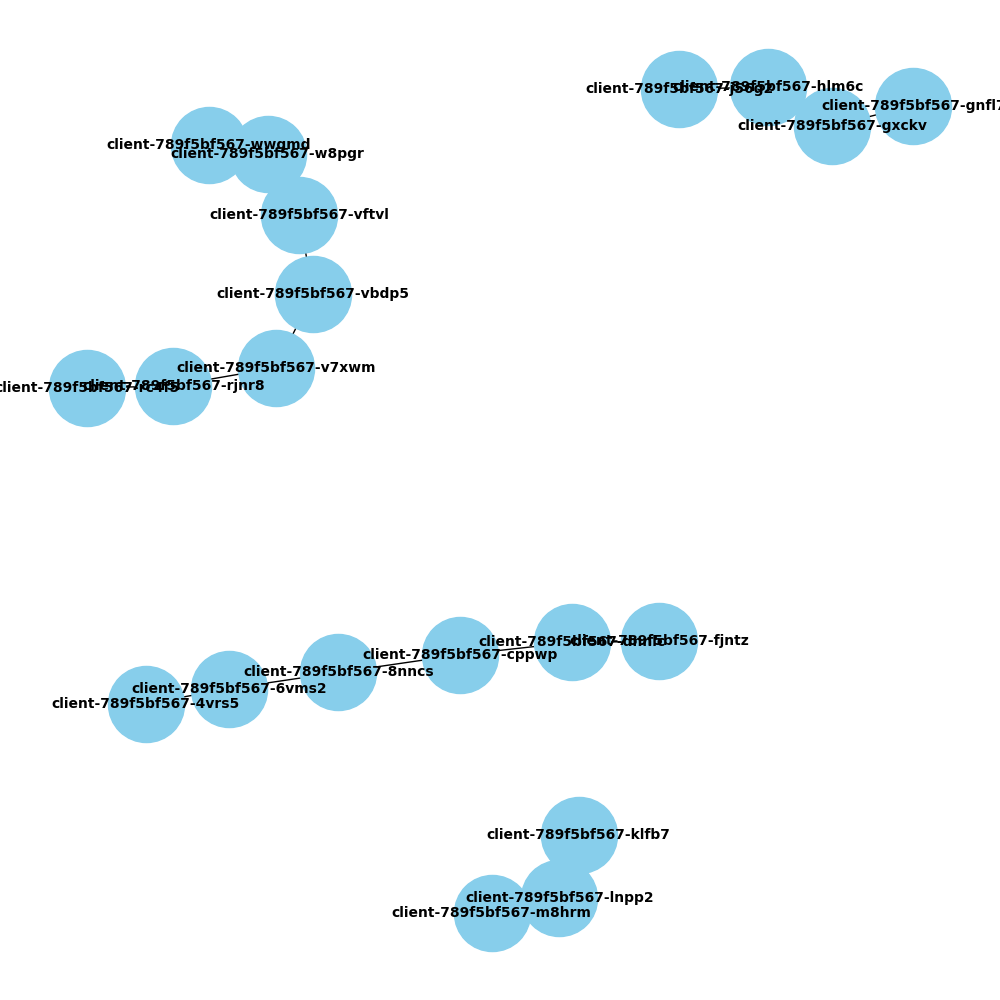
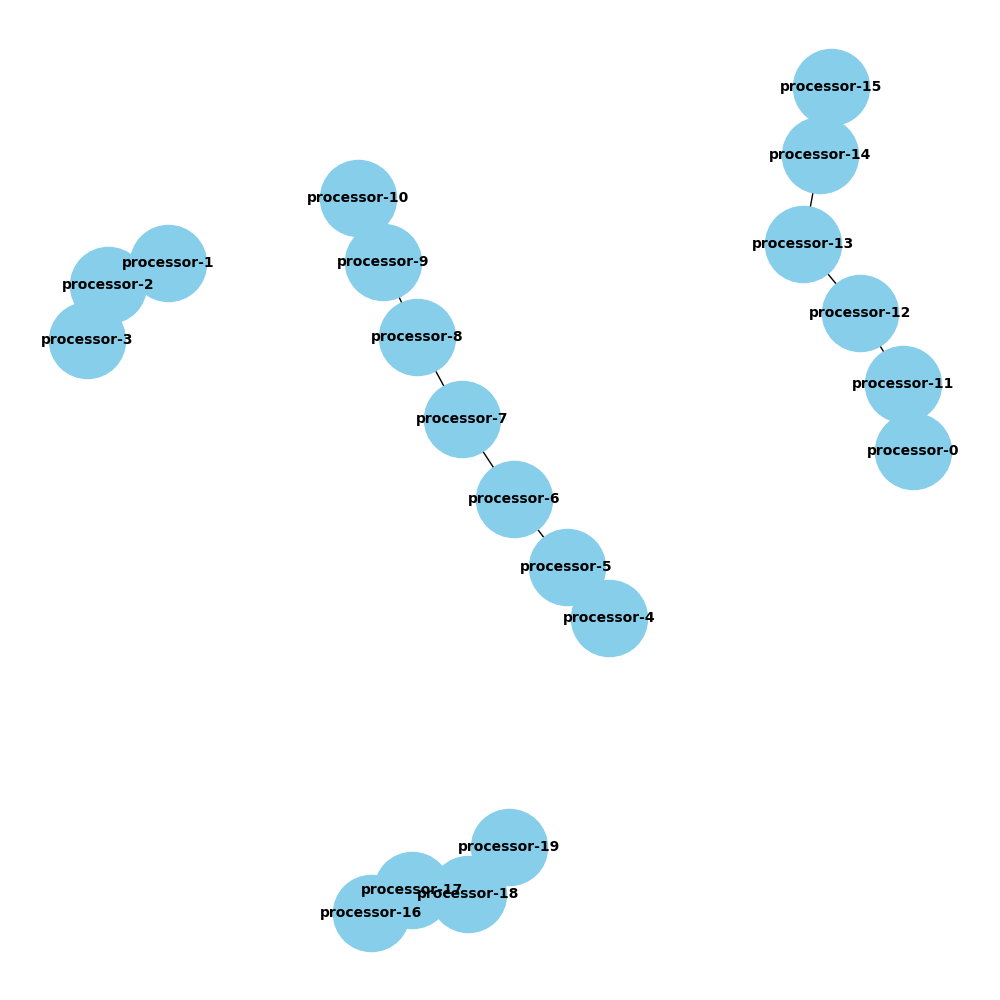
desired pods are defined dynamically

Changed region(s): [[0.0, 0.093, 0.744, 0.744], [0.589, 0.031, 1.0, 0.496], [0.31, 0.775, 0.651, 0.961]]

diff --git a/server/server.py b/server/server.py
@@ -5,8 +5,10 @@ import json
 from tokenize import Triple
 import numpy as np
 from sklearn.neighbors import kneighbors_graph
+from kubernetes import client, config
 import base64
 from flask import Flask, request, jsonify, Response
+from kubernetes import client, config
 import networkx as nx
 import matplotlib.pyplot as plt
 import datetime
@@ -24,7 +26,10 @@ all_client_attributes = {}
 all_client_models = {}
 # Initialize empty dictionary to store all neighbour predictions's attributes
 data_to_sends = dict()
-desired_num_pods = 20
+config.load_kube_config()
+v1 = client.CoreV1Api()
+pods = v1.list_namespaced_pod(namespace="fed-relax", label_selector="fedrelax-client")
+desired_num_pods = len(pods.item)
 
 # Initialize locks for thread safety
 attributes_lock = threading.Lock()
